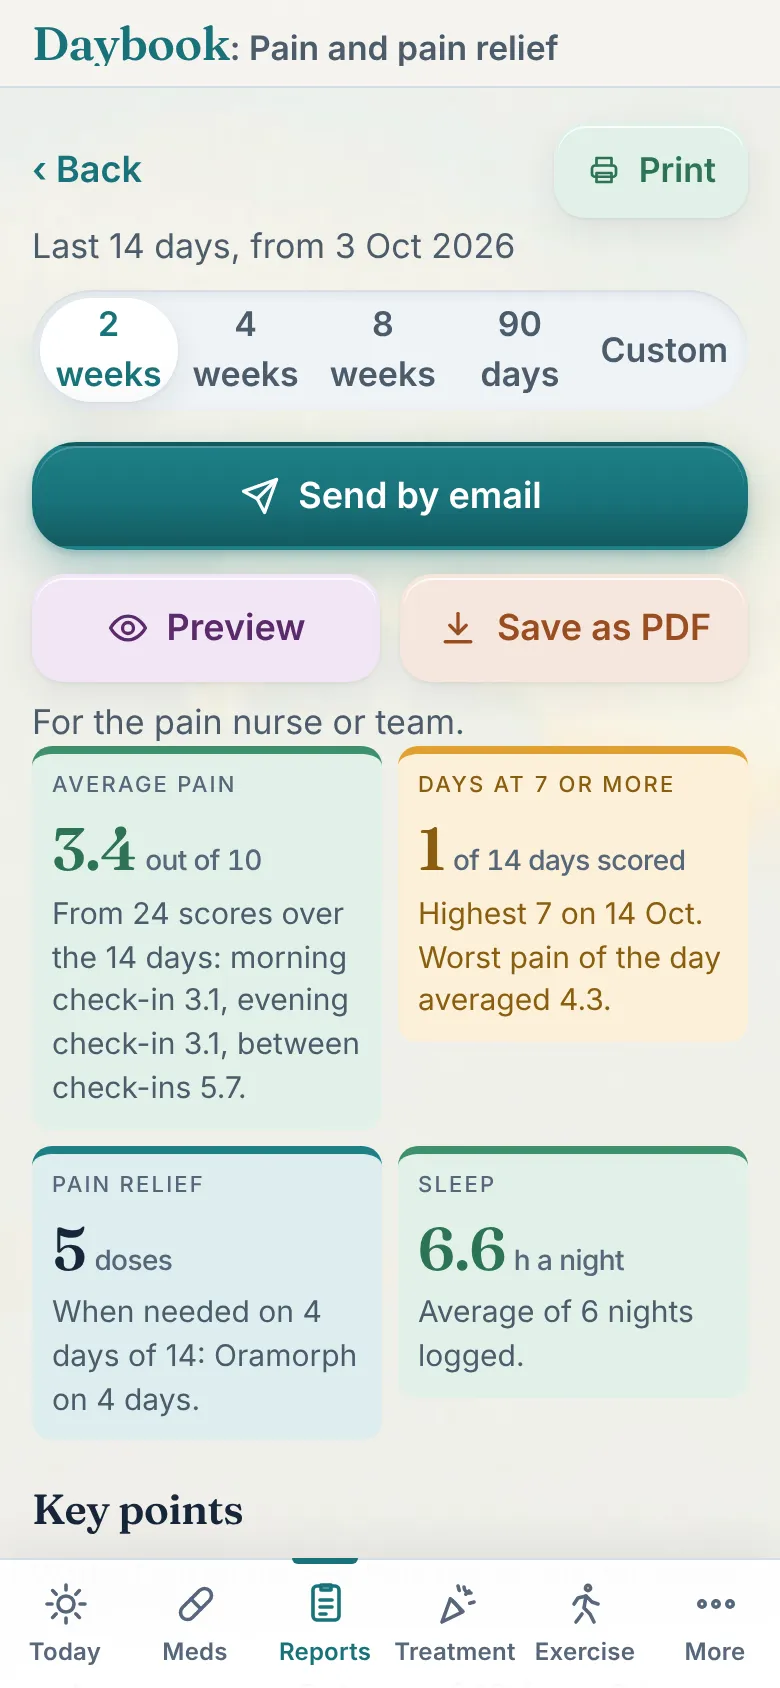
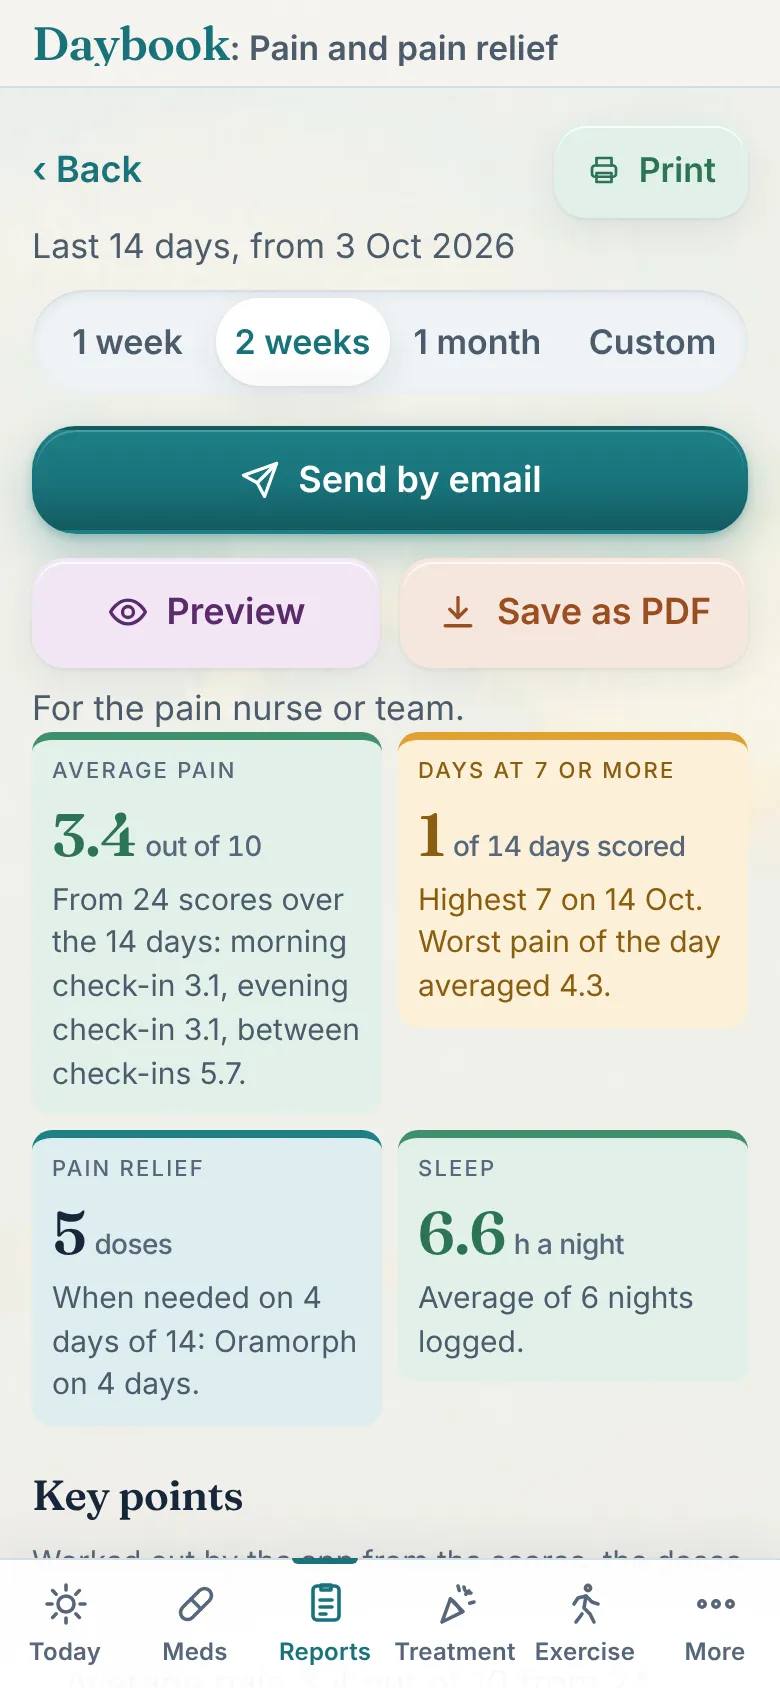
Guide frames from the app's v303 (the new report range row)
Claude-Session: https://claude.ai/code/session_019VY17MM1Pv81B6vJUTKu9b

diff --git a/js/site.js b/js/site.js
@@ -115,7 +115,7 @@
       if (!reduced && auto !== false) play(); else stop();
     };
     var load = function () {
-      return fetch('guide/guide.json?v=18').then(function (r) { if (!r.ok) throw new Error('guide ' + r.status); return r.json(); });
+      return fetch('guide/guide.json?v=19').then(function (r) { if (!r.ok) throw new Error('guide ' + r.status); return r.json(); });
     };
     load().then(function (d) {
       G.data = d;

diff --git a/privacy.html b/privacy.html
@@ -106,6 +106,6 @@
       <p>Daybook is not a medical device and gives no medical advice. In an emergency call 999; for urgent advice call 111.</p>
     </div>
   </footer>
-  <script src="js/site.js?v=20" defer></script>
+  <script src="js/site.js?v=21" defer></script>
 </body>
 </html>

diff --git a/support.html b/support.html
@@ -75,6 +75,6 @@
       <p>Daybook is not a medical device and gives no medical advice. In an emergency call 999; for urgent advice call 111.</p>
     </div>
   </footer>
-  <script src="js/site.js?v=20" defer></script>
+  <script src="js/site.js?v=21" defer></script>
 </body>
 </html>

diff --git a/terms.html b/terms.html
@@ -83,6 +83,6 @@
       <p>Daybook is not a medical device and gives no medical advice. In an emergency call 999; for urgent advice call 111.</p>
     </div>
   </footer>
-  <script src="js/site.js?v=20" defer></script>
+  <script src="js/site.js?v=21" defer></script>
 </body>
 </html>

diff --git a/beta.html b/beta.html
@@ -153,6 +153,6 @@
     </div>
   </footer>
 
-  <script src="js/site.js?v=20" defer></script>
+  <script src="js/site.js?v=21" defer></script>
 </body>
 </html>

diff --git a/index.html b/index.html
@@ -466,6 +466,6 @@
     </div>
   </footer>
 
-  <script src="js/site.js?v=20" defer></script>
+  <script src="js/site.js?v=21" defer></script>
 </body>
 </html>
